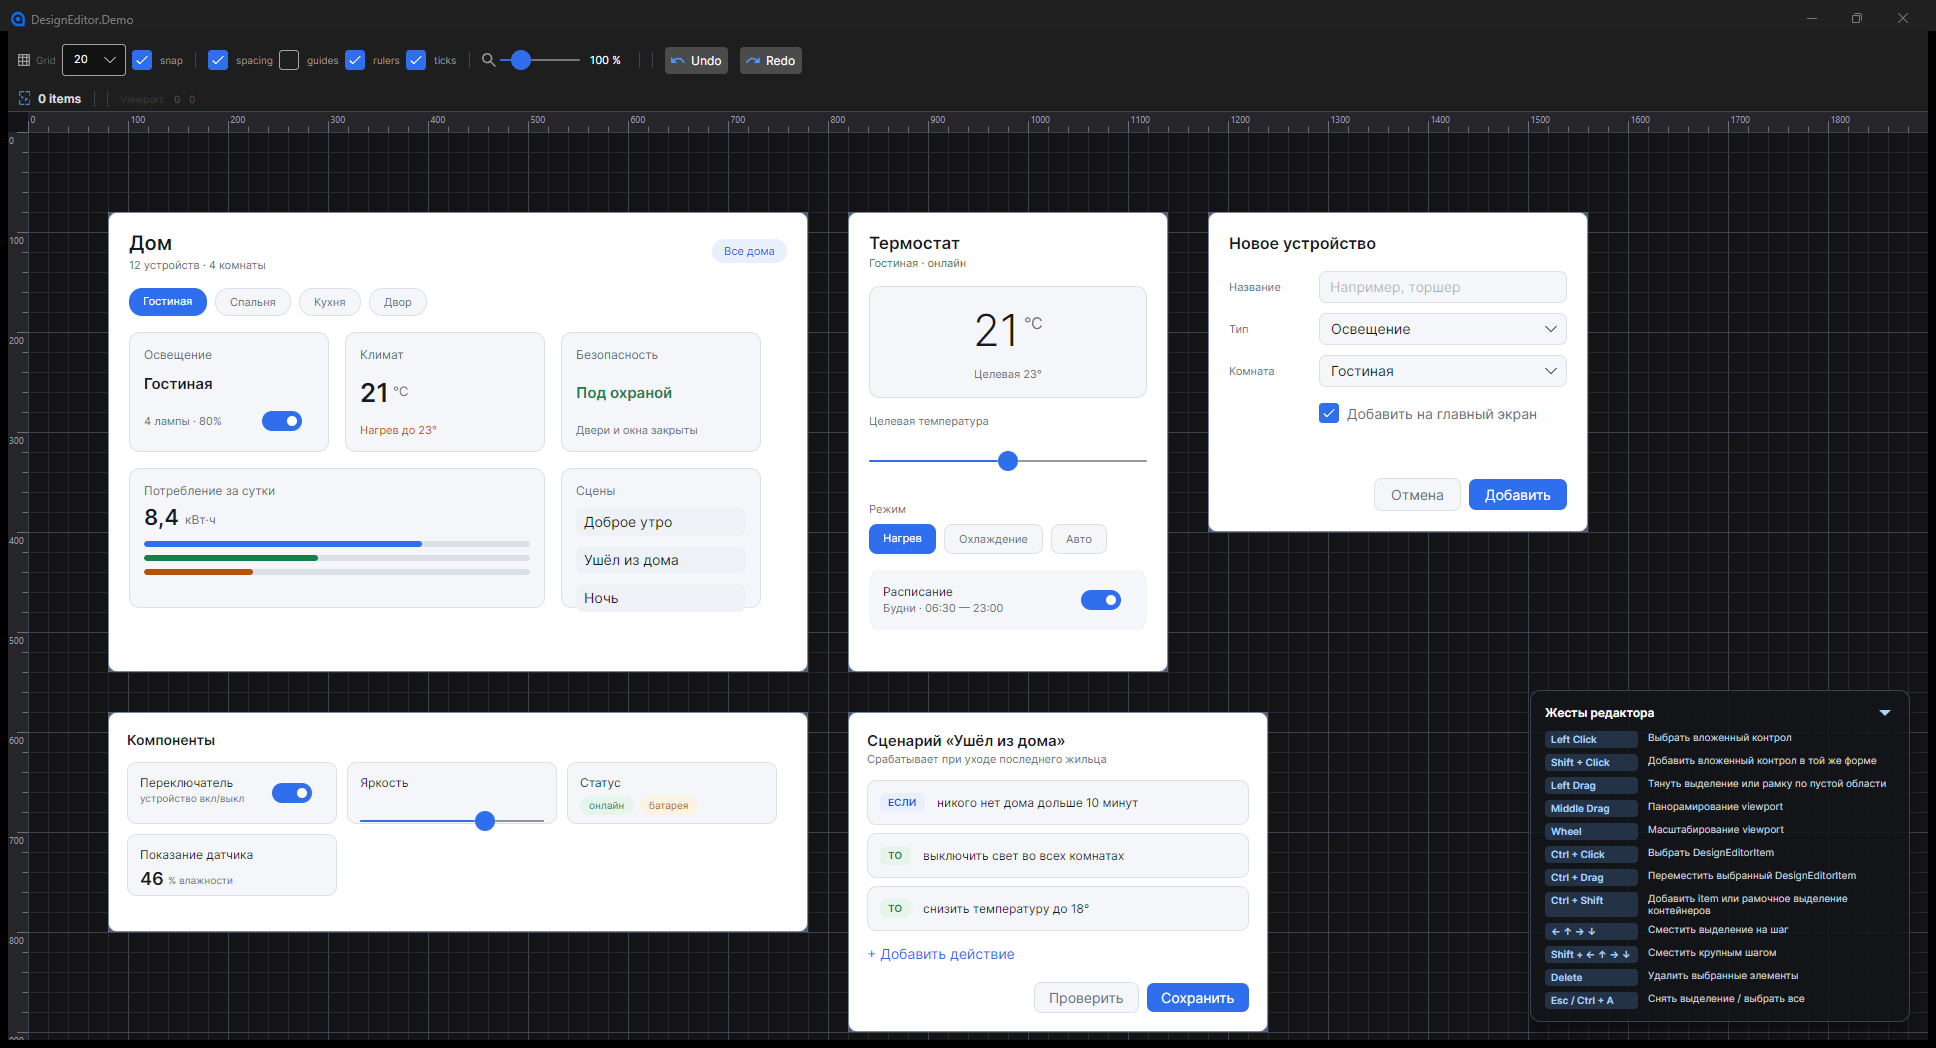
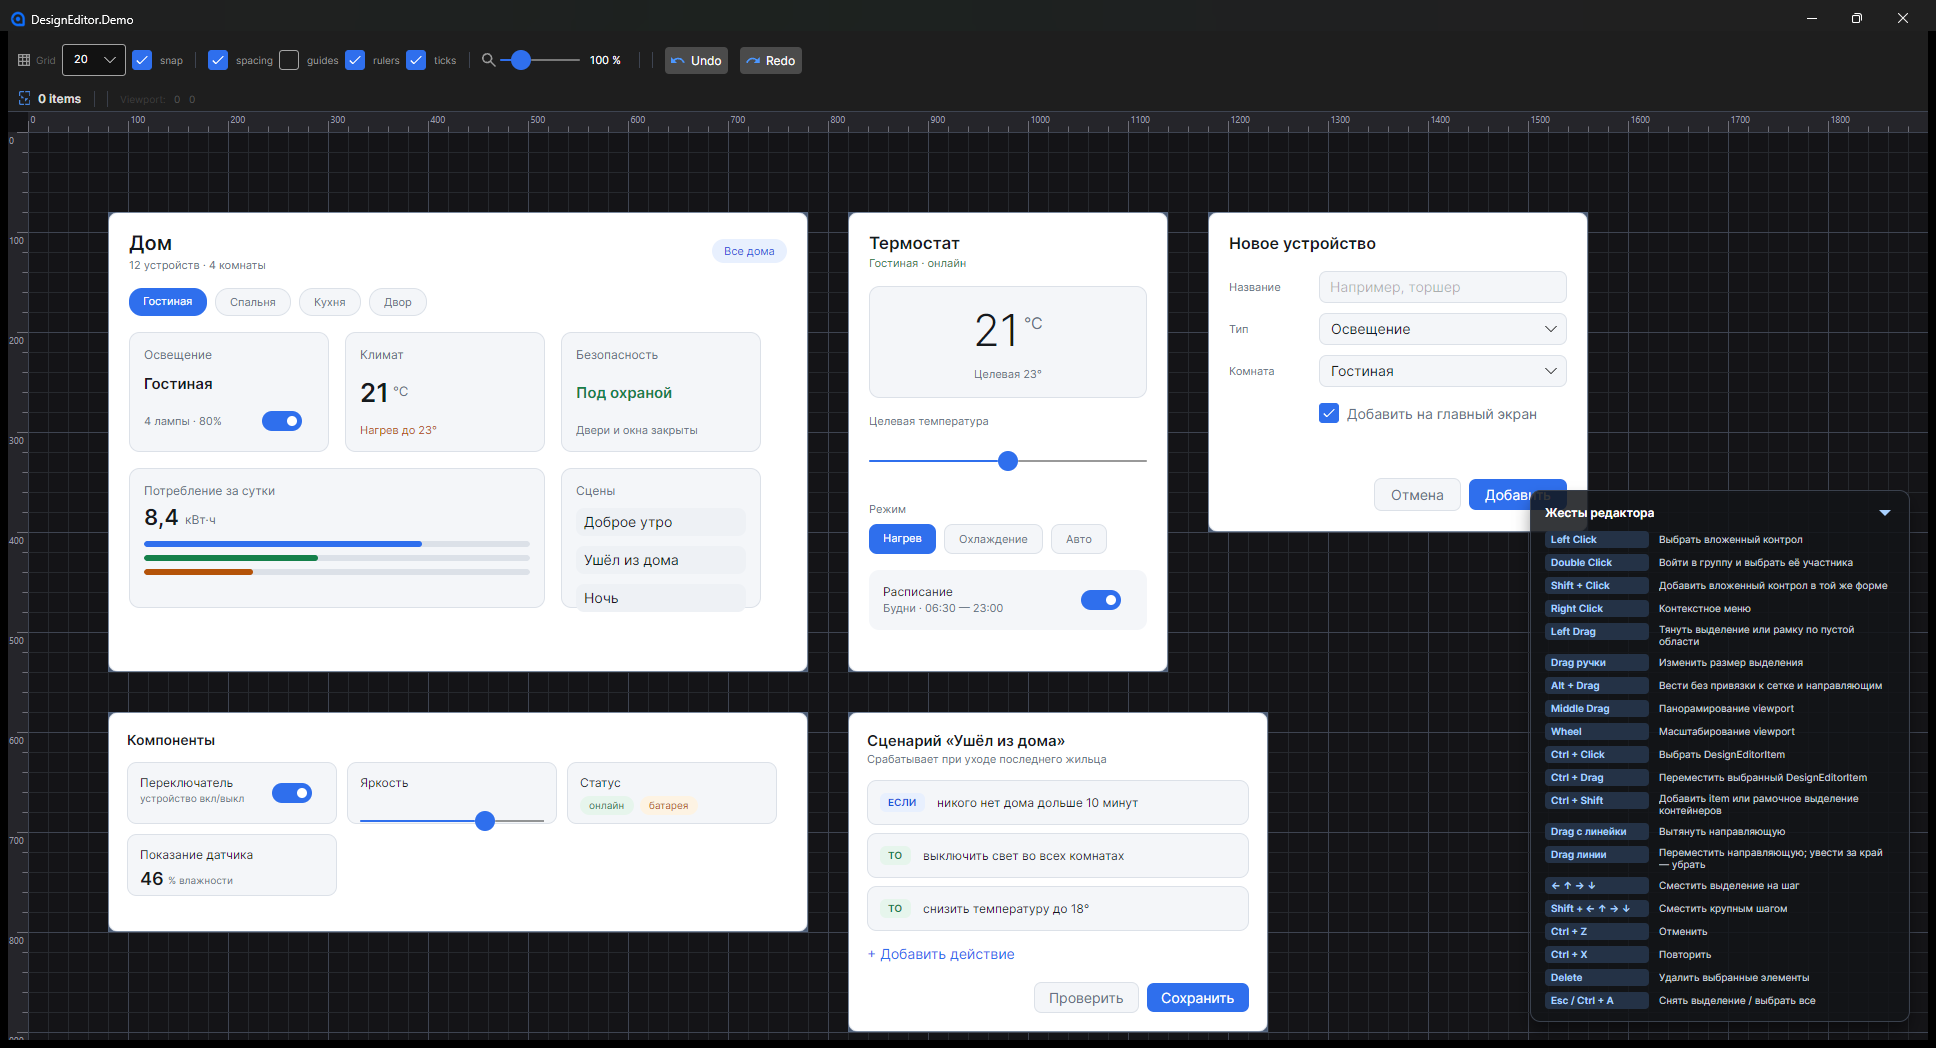
docs(demo): list every gesture the demo actually supports
Eight were missing: the double click that enters a group, the right click,
Alt to bypass snapping, undo and redo, dragging a guide off the ruler, moving
one, and the resize handles.

They were missing for a structural reason, so the list moved rather than
grew. Each row was a hand-numbered Grid.Row with a Border and a TextBlock —
eighteen lines of markup per gesture, plus renumbering everything below it.
Adding a gesture to the panel cost more than not adding it, and the panel
drifted. It is now an ItemsControl over a list on the view-model, where a
gesture is one line, and the markup went from 161 lines to 47.

Changed region(s): [[0.7748, 0.458, 0.9917, 0.9771], [0.031, 0.0, 0.062, 0.0305]]

diff --git a/samples/DesignEditor.Demo/ViewModels/MainWindowViewModel.cs b/samples/DesignEditor.Demo/ViewModels/MainWindowViewModel.cs
@@ -7,9 +7,54 @@ using CommunityToolkit.Mvvm.Input;
 
 namespace DesignEditor.Demo.ViewModels;
 
+/// <summary>
+/// Строка в подсказке о жестах: сочетание и что оно делает.
+/// </summary>
+/// <param name="Keys">Сочетание, как его нажимает пользователь.</param>
+/// <param name="Description">Что происходит.</param>
+public sealed record GestureHint(string Keys, string Description);
+
 public partial class MainWindowViewModel : ObservableObject
 {
     public ObservableCollection<DesignItemViewModel> Elements { get; } = new();
+
+    /// <summary>
+    /// Жесты редактора для панели подсказок.
+    /// </summary>
+    /// <remarks>
+    /// Список лежит здесь, а не в разметке, ровно потому, что рукописная сетка от него
+    /// отстала: каждая строка стоила восемнадцати строк XAML и ручной нумерации
+    /// <c>Grid.Row</c>, и дописать в неё жест было дороже, чем не дописать. Порядок —
+    /// от указателя к клавиатуре, как ими и пользуются.
+    /// <para>
+    /// Модификаторы здесь названы теми, что задаёт демо (<c>InputGestures</c> в разметке)
+    /// и что стоит по умолчанию у самого редактора: <c>Alt</c> — обход привязки,
+    /// <c>Ctrl</c> — работа с контейнером, <c>Shift</c> — добавление к выделению.
+    /// </para>
+    /// </remarks>
+    public IReadOnlyList<GestureHint> Gestures { get; } = new GestureHint[]
+    {
+        new("Left Click", "Выбрать вложенный контрол"),
+        new("Double Click", "Войти в группу и выбрать её участника"),
+        new("Shift + Click", "Добавить вложенный контрол в той же форме"),
+        new("Right Click", "Контекстное меню"),
+        new("Left Drag", "Тянуть выделение или рамку по пустой области"),
+        new("Drag ручки", "Изменить размер выделения"),
+        new("Alt + Drag", "Вести без привязки к сетке и направляющим"),
+        new("Middle Drag", "Панорамирование viewport"),
+        new("Wheel", "Масштабирование viewport"),
+        new("Ctrl + Click", "Выбрать DesignEditorItem"),
+        new("Ctrl + Drag", "Переместить выбранный DesignEditorItem"),
+        new("Ctrl + Shift", "Добавить item или рамочное выделение контейнеров"),
+        new("Drag с линейки", "Вытянуть направляющую"),
+        new("Drag линии", "Переместить направляющую; увести за край — убрать"),
+        new("← ↑ → ↓", "Сместить выделение на шаг"),
+        new("Shift + ← ↑ → ↓", "Сместить крупным шагом"),
+        new("Ctrl + Z", "Отменить"),
+        new("Ctrl + X", "Повторить"),
+        new("Delete", "Удалить выбранные элементы"),
+        new("Esc / Ctrl + A", "Снять выделение / выбрать все"),
+    };
 
     /// <summary>
     /// Пользовательские направляющие макета.
